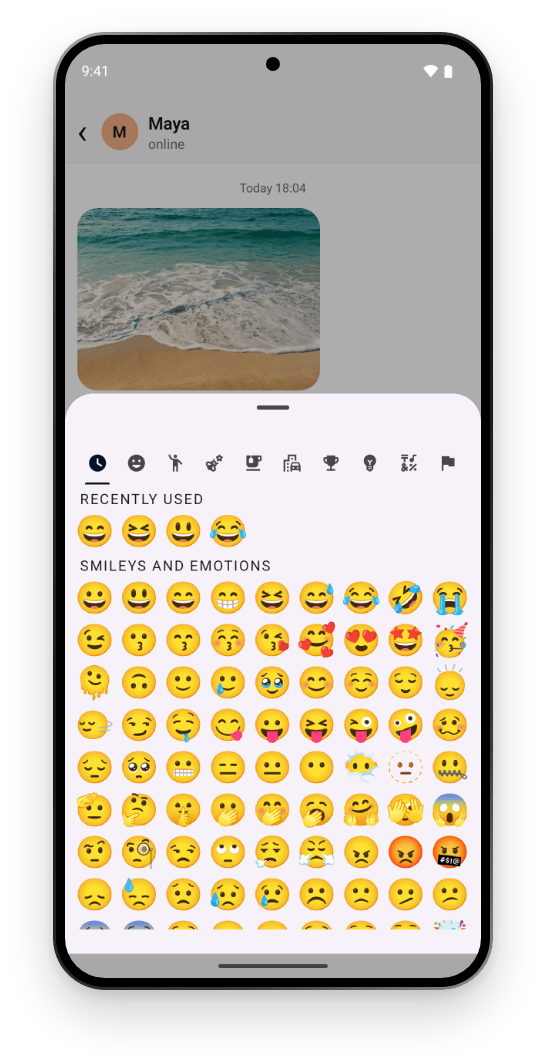
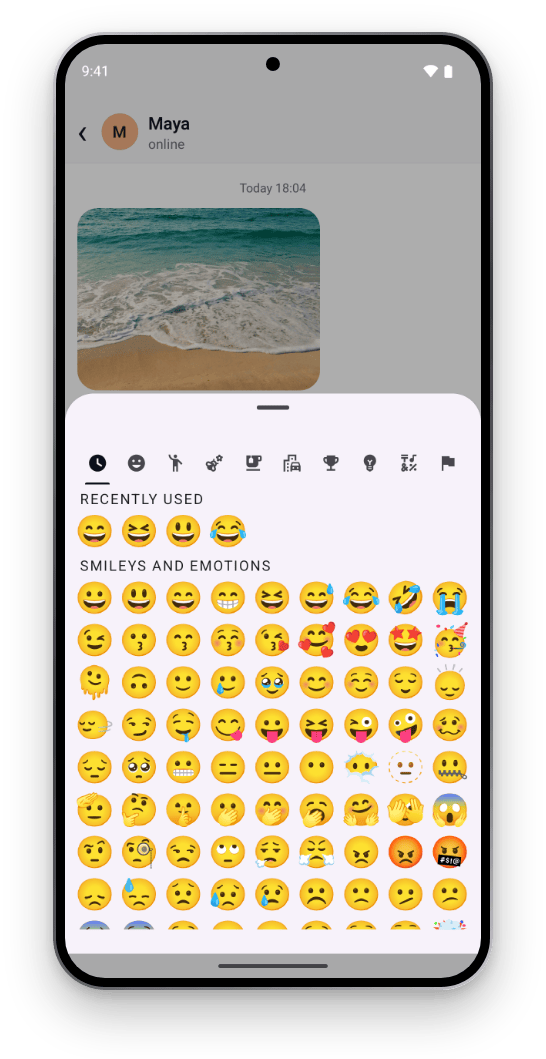
docs(readme): show one image per screenshot, light and dark side by side

Changed region(s): [[0.8095, 0.0312, 0.9029, 0.9348], [0.0934, 0.0312, 0.1868, 0.9348]]

diff --git a/scripts/screenshots/frame.py b/scripts/screenshots/frame.py
@@ -3,11 +3,10 @@
 
 Usage: frame.py <raw_dir> <out_dir>
 
-<raw_dir>/<platform>-<scene>-<light|dark>.png come from capture.sh. Writes, each in a light
-and a dark version (a darker metal and a soft shadow for light pages, a lighter rim for dark
-ones), on a transparent background:
-  <out_dir>/<platform>-<scene>-<appearance>.png   one framed phone, for the table
-  <out_dir>/hero-<appearance>.png                 HERO's phones side by side, under the intro
+<raw_dir>/<platform>-<scene>-<light|dark>.png come from capture.sh. Writes, on a transparent
+background, with one rim that reads on light and dark pages:
+  <out_dir>/<platform>-<scene>-<appearance>.png   one framed phone per CELLS entry, for the table
+  <out_dir>/hero.png                              HERO's phones side by side, under the intro
 Each page is HTML (CSS frame, camera cutout) rendered by headless Chrome, then pngquant.
 Needs Google Chrome and pngquant.
 """
@@ -20,8 +19,10 @@ from pathlib import Path
 CHROME = '/Applications/Google Chrome.app/Contents/MacOS/Google Chrome'
 
 # What the README shows: the table's cells, and the hero's phones from left to right.
-CELLS = [f'{p}-chat' for p in ('ios26', 'ios18', 'android')]
-HERO = ['ios26-chat', 'android-chat']
+# Each image is the same for every reader: GitHub swaps <picture> sources by the OS, not by its
+# own theme setting, and npm never swaps. So each slot shows one appearance, and the hero both.
+CELLS = [(f'{p}-chat', 'light') for p in ('ios26', 'ios18', 'android')]
+HERO = [('ios26-chat', 'light'), ('android-chat', 'dark')]
 
 # Frames, as fractions of the phone's width. iPhone: a metal rim, a black bezel, the Dynamic
 # Island (126 x 37 pt, 11 pt from the top of a 402 pt screen). Pixel 9: a satin rim, a thin
@@ -30,14 +31,9 @@ PHONES = {
     'ios': dict(r=0.172, rim=0.0065, bezel=0.019, cutout='island'),
     'android': dict(r=0.118, rim=0.0075, bezel=0.021, cutout='hole'),
 }
-METAL = {
-    'light': 'linear-gradient(135deg,#a9a9ae 0%,#3a3a3e 18%,#141416 50%,#3a3a3e 82%,#8e8e93 100%)',
-    'dark': 'linear-gradient(135deg,#e4e4e8 0%,#8a8a90 18%,#55555a 50%,#8a8a90 82%,#d2d2d7 100%)',
-}
-SHADOW = {
-    'light': '0 {a}px {b}px rgba(11,11,15,.20),0 {c}px {d}px rgba(11,11,15,.10)',
-    'dark': '0 {a}px {b}px rgba(0,0,0,.55),0 {c}px {d}px rgba(0,0,0,.35)',
-}
+# One rim and shadow that read on GitHub's light and dark pages and on npm.
+METAL = 'linear-gradient(135deg,#d1d1d6 0%,#7c7c82 18%,#3a3a3e 50%,#7c7c82 82%,#c7c7cc 100%)'
+SHADOW = '0 {a}px {b}px rgba(0,0,0,.28),0 {c}px {d}px rgba(0,0,0,.16)'
 
 CELL_W = 440          # table cells show at 220 px
 HERO_PHONE_W = 600    # the hero shows at ~880 px, so phones at ~330 px
@@ -69,7 +65,7 @@ def phone(img, platform, appearance, w, left, top):
     sh = round(sw * ih / iw)
     h = sh + 2 * (rim + bezel)
     r = round(w * p['r'])
-    shadow = SHADOW[appearance].format(a=round(w * .05), b=round(w * .11), c=round(w * .012), d=round(w * .03))
+    shadow = SHADOW.format(a=round(w * .05), b=round(w * .11), c=round(w * .012), d=round(w * .03))
     if p['cutout'] == 'island':
         cw, ch = sw * 126 / 402, sw * 37.3 / 402
         cutout = f'<div class="island" style="top:{sw * 11 / 402:.1f}px;width:{cw:.1f}px;height:{ch:.1f}px;border-radius:{ch / 2:.1f}px"></div>'
@@ -77,7 +73,7 @@ def phone(img, platform, appearance, w, left, top):
         d = sw * 0.034
         cutout = f'<div class="hole" style="top:{sh * 0.0215 - d / 2:.1f}px;width:{d:.1f}px;height:{d:.1f}px;border-radius:50%"></div>'
     html = (f'<div class="frame" style="left:{left}px;top:{top}px;width:{w}px;height:{h}px;border-radius:{r}px;'
-            f'padding:{rim}px;background:{METAL[appearance]};box-shadow:{shadow}">'
+            f'padding:{rim}px;background:{METAL};box-shadow:{shadow}">'
             f'<div class="bezel" style="border-radius:{r - rim}px;padding:{bezel}px">'
             f'<div class="screen" style="border-radius:{r - rim - bezel}px"><img src="{img.resolve().as_uri()}">{cutout}</div>'
             f'</div></div>')
@@ -100,27 +96,25 @@ def render(html, png, width, height):
 
 def main(raw, out):
     out.mkdir(parents=True, exist_ok=True)
-    for appearance in ('light', 'dark'):
-        for cell in CELLS:
-            img = raw / f'{cell}-{appearance}.png'
-            if not img.exists():
-                sys.exit(f'missing capture: {img}')
-            pad = round(CELL_W * PAD)
-            html, h = phone(img, cell.split('-')[0], appearance, CELL_W, pad, round(pad * .6))
-            W, H = CELL_W + 2 * pad, h + round(pad * 1.9)
-            render(PAGE.format(W=W, H=H, phones=html), out / f'{cell}-{appearance}.png', W, H)
-        pad = round(HERO_PHONE_W * PAD)
-        parts, heights = [], []
-        for i, shot in enumerate(HERO):
-            img = raw / f'{shot}-{appearance}.png'
-            html, h = phone(img, shot.split('-')[0], appearance, HERO_PHONE_W,
-                            pad + i * (HERO_PHONE_W + HERO_GAP), round(pad * .6))
-            parts.append(html)
-            heights.append(h)
-        W = 2 * pad + len(HERO) * HERO_PHONE_W + (len(HERO) - 1) * HERO_GAP
-        H = max(heights) + round(pad * 1.9)
-        render(PAGE.format(W=W, H=H, phones=''.join(parts)), out / f'hero-{appearance}.png', W, H)
-
+    for cell, appearance in CELLS:
+        img = raw / f'{cell}-{appearance}.png'
+        if not img.exists():
+            sys.exit(f'missing capture: {img}')
+        pad = round(CELL_W * PAD)
+        html, h = phone(img, cell.split('-')[0], appearance, CELL_W, pad, round(pad * .6))
+        W, H = CELL_W + 2 * pad, h + round(pad * 1.9)
+        render(PAGE.format(W=W, H=H, phones=html), out / f'{cell}-{appearance}.png', W, H)
+    pad = round(HERO_PHONE_W * PAD)
+    parts, heights = [], []
+    for i, (shot, appearance) in enumerate(HERO):
+        img = raw / f'{shot}-{appearance}.png'
+        html, h = phone(img, shot.split('-')[0], appearance, HERO_PHONE_W,
+                        pad + i * (HERO_PHONE_W + HERO_GAP), round(pad * .6))
+        parts.append(html)
+        heights.append(h)
+    W = 2 * pad + len(HERO) * HERO_PHONE_W + (len(HERO) - 1) * HERO_GAP
+    H = max(heights) + round(pad * 1.9)
+    render(PAGE.format(W=W, H=H, phones=''.join(parts)), out / 'hero.png', W, H)
 
 if __name__ == '__main__':
     if not shutil.which('pngquant'):

diff --git a/README.md b/README.md
@@ -12,11 +12,11 @@ A native emoji picker for React Native, built from UIKit and Material 3 componen
 - **iOS**: a popover anchored to the view you pass, with search, recents, skin tones and a category bar. Its backgrounds are clear, so the popover's own material shows through: Liquid Glass on iOS 26, the system blur on earlier versions. It only uses public UIKit APIs. iOS has no public emoji picker, and the emoji keyboard can't be opened on its own without undocumented calls.
 - **Android**: Google's `EmojiPickerView` (androidx.emoji2 1.7.0) in a Material 3 bottom sheet. It brings its own categories, skin tones, recents and emoji compatibility.
 
-<p align="center"><picture><source media="(prefers-color-scheme: dark)" srcset="docs/images/hero-dark.png"><source media="(prefers-color-scheme: light)" srcset="docs/images/hero-light.png"><img src="docs/images/hero-light.png" width="720" alt="An iPhone showing the emoji popover over a chat thread, next to an Android phone showing the Material 3 emoji sheet"></picture></p>
+<p align="center"><img src="docs/images/hero.png" width="720" alt="An iPhone showing the emoji popover over a chat thread, next to an Android phone in dark mode showing the Material 3 emoji sheet"></p>
 
-| iOS 26                                                                                                                                                                                                                                                                                                                                                                                                  | iOS 18                                                                                                                                                                                                                                                                                                       | Android                                                                                                                                                                                                                                                                                                                                           |
-| ------------------------------------------------------------------------------------------------------------------------------------------------------------------------------------------------------------------------------------------------------------------------------------------------------------------------------------------------------------------------------------------------------- | ------------------------------------------------------------------------------------------------------------------------------------------------------------------------------------------------------------------------------------------------------------------------------------------------------------ | ------------------------------------------------------------------------------------------------------------------------------------------------------------------------------------------------------------------------------------------------------------------------------------------------------------------------------------------------- |
-| <picture><source media="(prefers-color-scheme: dark)" srcset="docs/images/ios26-chat-dark.png"><source media="(prefers-color-scheme: light)" srcset="docs/images/ios26-chat-light.png"><img src="docs/images/ios26-chat-light.png" width="220" alt="iOS 26: a Liquid Glass emoji popover under the reaction button of a chat message, with search, frequently used emoji and a category bar"></picture> | <picture><source media="(prefers-color-scheme: dark)" srcset="docs/images/ios18-chat-dark.png"><source media="(prefers-color-scheme: light)" srcset="docs/images/ios18-chat-light.png"><img src="docs/images/ios18-chat-light.png" width="220" alt="iOS 18: the same picker in a classic popover"></picture> | <picture><source media="(prefers-color-scheme: dark)" srcset="docs/images/android-chat-dark.png"><source media="(prefers-color-scheme: light)" srcset="docs/images/android-chat-light.png"><img src="docs/images/android-chat-light.png" width="220" alt="Android: a Material 3 bottom sheet with Google's emoji picker over the chat"></picture> |
+| iOS 26                                                                                                                                                                                                 | iOS 18                                                                                                      | Android                                                                                                                                      |
+| ------------------------------------------------------------------------------------------------------------------------------------------------------------------------------------------------------ | ----------------------------------------------------------------------------------------------------------- | -------------------------------------------------------------------------------------------------------------------------------------------- |
+| <img src="docs/images/ios26-chat-light.png" width="220" alt="iOS 26: a Liquid Glass emoji popover under the reaction button of a chat message, with search, frequently used emoji and a category bar"> | <img src="docs/images/ios18-chat-light.png" width="220" alt="iOS 18: the same picker in a classic popover"> | <img src="docs/images/android-chat-light.png" width="220" alt="Android: a Material 3 bottom sheet with Google's emoji picker over the chat"> |
 
 Photo by [Mink Mingle](https://unsplash.com/@minkmingle?utm_source=27appstudio_showcase&utm_medium=referral) on [Unsplash](https://unsplash.com/?utm_source=27appstudio_showcase&utm_medium=referral). The chat passes Splitify's default `tintColor`, ink in light mode and cream in dark mode. The scene is in [`example/src/Showcase.tsx`](example/src/Showcase.tsx), captured and framed by [`scripts/screenshots`](scripts/screenshots).
 
